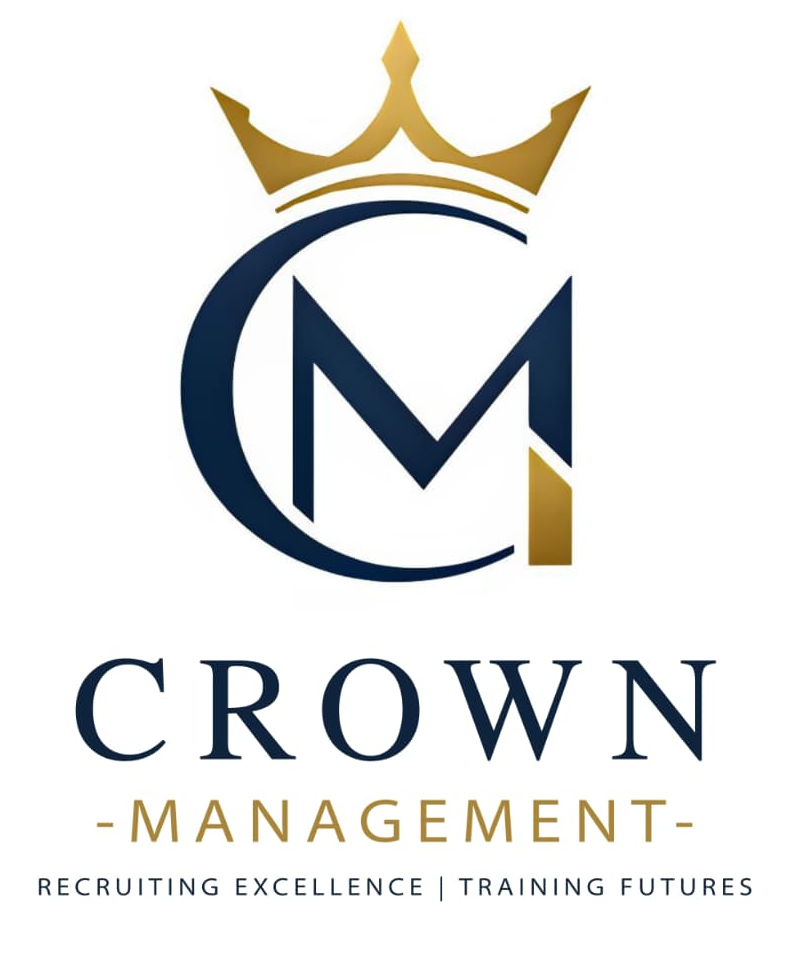
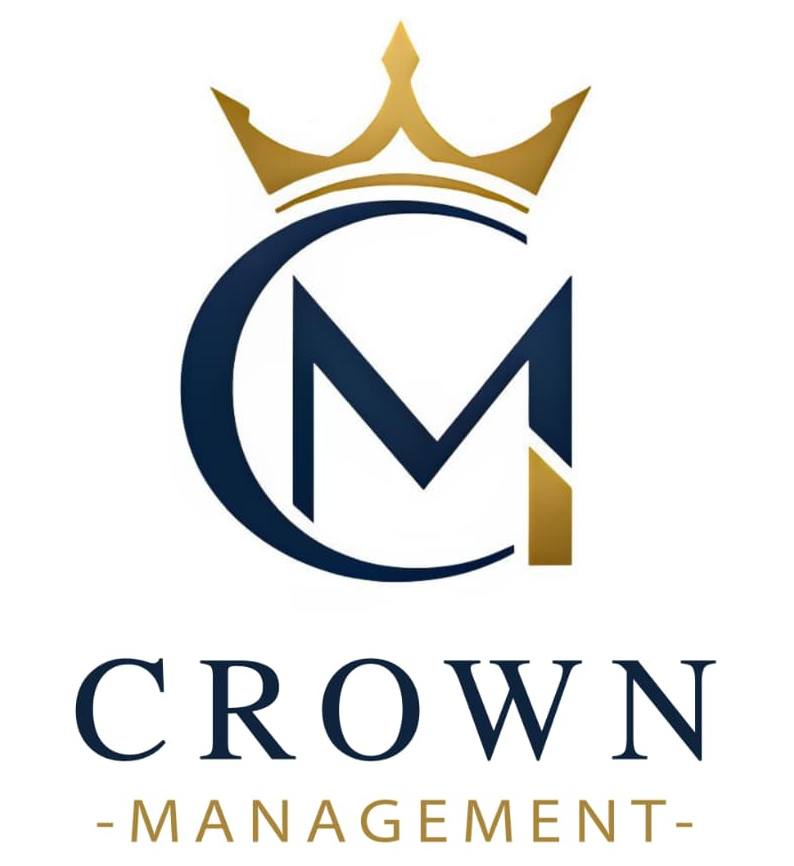
fix: correct email address across all pages and initialize global styles.css

Changed region(s): [[0.0302, 0.0312, 0.937, 0.9977]]

diff --git a/css/styles.css b/css/styles.css
@@ -89,12 +89,10 @@ header {
   position: sticky;
   top: 15px;
   margin: 15px auto 0 auto;
-  width: calc(100% - 40px);
+  width: calc(100% - 30px);
   max-width: 1200px;
-  background: rgba(255, 255, 255, 0.75);
-  backdrop-filter: blur(20px);
-  -webkit-backdrop-filter: blur(20px);
-  border: 1px solid rgba(255, 255, 255, 0.45);
+  background: #ffffff;
+  border: 1px solid rgba(0, 150, 136, 0.12);
   border-radius: 50px;
   box-shadow: 0 10px 30px -10px rgba(0, 150, 136, 0.12), 0 1px 3px rgba(0, 0, 0, 0.02);
   z-index: 1000;
@@ -102,9 +100,9 @@ header {
 }
 
 header.scrolled {
-  background: rgba(255, 255, 255, 0.9);
+  background: #ffffff;
   box-shadow: 0 15px 35px -8px rgba(0, 150, 136, 0.18), 0 2px 10px rgba(0, 0, 0, 0.03);
-  border-color: rgba(255, 255, 255, 0.25);
+  border-color: rgba(0, 150, 136, 0.15);
 }
 
 nav {

diff --git a/contact.html b/contact.html
@@ -436,7 +436,7 @@
                                     style="color: #0f172a; font-size: 1.1rem; display: block; margin-bottom: 0.5rem;">Email
                                     Us</strong>
                                 <p style="color: #009688; font-weight: 600; margin: 0 0 0.3rem 0;">
-                                    [email redacted]</p>
+                                    [email redacted]</p>
                                 <small style="color: #64748b;">We respond within 2 hours</small>
                             </div>
                         </div>
@@ -701,7 +701,7 @@
                         rel="noopener noreferrer"><i class="fab fa-instagram"></i></a>
                     <a href="https://x.com/Heliowelness?t=uLrIu84lXniWOtTz2ihZbg&s=08" target="_blank"
                         rel="noopener noreferrer"><i class="fab fa-twitter"></i></a>
-                    <a href="mailto:[email redacted]"><i class="fas fa-envelope"></i></a>
+                    <a href="mailto:[email redacted]"><i class="fas fa-envelope"></i></a>
                 </div>
             </div>
 
@@ -728,7 +728,7 @@
             <div class="footer-section">
                 <h3>Contact Info</h3>
                 <ul>
-                    <li><i class="fas fa-envelope"></i> [email redacted]</li>
+                    <li><i class="fas fa-envelope"></i> [email redacted]</li>
                     <li><i class="fas fa-phone"></i> [phone redacted]</li>
                     <li><i class="fab fa-whatsapp"></i> WhatsApp: [phone redacted]</li>
                 </ul>

diff --git a/hydrafacial.html b/hydrafacial.html
@@ -513,7 +513,7 @@
                         rel="noopener noreferrer"><i class="fab fa-instagram"></i></a>
                     <a href="https://x.com/Heliowelness?t=uLrIu84lXniWOtTz2ihZbg&s=08" target="_blank"
                         rel="noopener noreferrer"><i class="fab fa-twitter"></i></a>
-                    <a href="mailto:[email redacted]"><i class="fas fa-envelope"></i></a>
+                    <a href="mailto:[email redacted]"><i class="fas fa-envelope"></i></a>
                 </div>
             </div>
 
@@ -540,7 +540,7 @@
             <div class="footer-section">
                 <h3>Contact Info</h3>
                 <ul>
-                    <li><i class="fas fa-envelope"></i> [email redacted]</li>
+                    <li><i class="fas fa-envelope"></i> [email redacted]</li>
                     <li><i class="fas fa-phone"></i> [phone redacted]</li>
                     <li><i class="fab fa-whatsapp"></i> WhatsApp: [phone redacted]</li>
                 </ul>
@@ -586,7 +586,7 @@
             "name": "Helio",
             "url": "https://heliowellnes.com",
             "telephone": "[phone redacted]",
-            "email": "[email redacted]"
+            "email": "[email redacted]"
         },
         "medicalSpecialty": "Dermatology",
         "indication": [

diff --git a/about.html b/about.html
@@ -632,7 +632,7 @@
                         rel="noopener noreferrer"><i class="fab fa-instagram"></i></a>
                     <a href="https://x.com/Heliowelness?t=uLrIu84lXniWOtTz2ihZbg&s=08" target="_blank"
                         rel="noopener noreferrer"><i class="fab fa-twitter"></i></a>
-                    <a href="mailto:[email redacted]"><i class="fas fa-envelope"></i></a>
+                    <a href="mailto:[email redacted]"><i class="fas fa-envelope"></i></a>
                 </div>
             </div>
 
@@ -659,7 +659,7 @@
             <div class="footer-section">
                 <h3>Contact Info</h3>
                 <ul>
-                    <li><i class="fas fa-envelope"></i> [email redacted]</li>
+                    <li><i class="fas fa-envelope"></i> [email redacted]</li>
                     <li><i class="fas fa-phone"></i> [phone redacted]</li>
                     <li><i class="fab fa-whatsapp"></i> WhatsApp: [phone redacted]</li>
                 </ul>

diff --git a/how-it-works.html b/how-it-works.html
@@ -324,7 +324,7 @@
                         rel="noopener noreferrer"><i class="fab fa-instagram"></i></a>
                     <a href="https://x.com/Heliowelness?t=uLrIu84lXniWOtTz2ihZbg&s=08" target="_blank"
                         rel="noopener noreferrer"><i class="fab fa-twitter"></i></a>
-                    <a href="mailto:[email redacted]"><i class="fas fa-envelope"></i></a>
+                    <a href="mailto:[email redacted]"><i class="fas fa-envelope"></i></a>
                 </div>
             </div>
             <div class="footer-section">
@@ -348,7 +348,7 @@
             <div class="footer-section">
                 <h3>Contact Info</h3>
                 <ul>
-                    <li><i class="fas fa-envelope"></i> [email redacted]</li>
+                    <li><i class="fas fa-envelope"></i> [email redacted]</li>
                     <li><i class="fas fa-phone"></i> [phone redacted]</li>
                     <li><i class="fab fa-whatsapp"></i> WhatsApp: [phone redacted]</li>
                 </ul>

diff --git a/index.html b/index.html
@@ -721,7 +721,7 @@
                         rel="noopener noreferrer"><i class="fab fa-instagram"></i></a>
                     <a href="https://x.com/Heliowelness?t=uLrIu84lXniWOtTz2ihZbg&s=08" target="_blank"
                         rel="noopener noreferrer"><i class="fab fa-twitter"></i></a>
-                    <a href="mailto:[email redacted]"><i class="fas fa-envelope"></i></a>
+                    <a href="mailto:[email redacted]"><i class="fas fa-envelope"></i></a>
                 </div>
             </div>
             <div class="footer-section">
@@ -745,7 +745,7 @@
             <div class="footer-section">
                 <h3>Contact Info</h3>
                 <ul>
-                    <li><i class="fas fa-envelope"></i> [email redacted]</li>
+                    <li><i class="fas fa-envelope"></i> [email redacted]</li>
                     <li><i class="fas fa-phone"></i> [phone redacted]</li>
                     <li><i class="fab fa-whatsapp"></i> WhatsApp: [phone redacted]</li>
                 </ul>

diff --git a/privacy.html b/privacy.html
@@ -95,7 +95,7 @@
                 <h2>9. Contact Us</h2>
                 <p>If you have any questions, concerns, or requests regarding this Privacy Policy or your data protection rights, please contact us at:</p>
                 <p style="margin-bottom: 0;"><strong>Crown Management Private Limited / Helio</strong><br>
-                Email: [email redacted]<br>
+                Email: [email redacted]<br>
                 Phone: [phone redacted]</p>
             </div>
         </div>
@@ -121,7 +121,7 @@
             <div class="footer-section">
                 <h3>Contact Info</h3>
                 <ul>
-                    <li><i class="fas fa-envelope"></i> [email redacted]</li>
+                    <li><i class="fas fa-envelope"></i> [email redacted]</li>
                     <li><i class="fas fa-phone"></i> [phone redacted]</li>
                     <li><i class="fab fa-whatsapp"></i> WhatsApp: [phone redacted]</li>
                 </ul>

diff --git a/services.html b/services.html
@@ -664,7 +664,7 @@
                         rel="noopener noreferrer"><i class="fab fa-instagram"></i></a>
                     <a href="https://x.com/Heliowelness?t=uLrIu84lXniWOtTz2ihZbg&s=08" target="_blank"
                         rel="noopener noreferrer"><i class="fab fa-twitter"></i></a>
-                    <a href="mailto:[email redacted]"><i class="fas fa-envelope"></i></a>
+                    <a href="mailto:[email redacted]"><i class="fas fa-envelope"></i></a>
                 </div>
             </div>
             <div class="footer-section">
@@ -688,7 +688,7 @@
             <div class="footer-section">
                 <h3>Contact Info</h3>
                 <ul>
-                    <li><i class="fas fa-envelope"></i> [email redacted]</li>
+                    <li><i class="fas fa-envelope"></i> [email redacted]</li>
                     <li><i class="fas fa-phone"></i> [phone redacted]</li>
                     <li><i class="fab fa-whatsapp"></i> WhatsApp: [phone redacted]</li>
                 </ul>

diff --git a/terms.html b/terms.html
@@ -92,7 +92,7 @@
                 <h2>10. Contact Us</h2>
                 <p>If you have any questions or require clarifications regarding these Terms of Service, please contact us at:</p>
                 <p style="margin-bottom: 0;"><strong>Crown Management Private Limited / Helio</strong><br>
-                Email: [email redacted]<br>
+                Email: [email redacted]<br>
                 Phone: [phone redacted]</p>
             </div>
         </div>
@@ -118,7 +118,7 @@
             <div class="footer-section">
                 <h3>Contact Info</h3>
                 <ul>
-                    <li><i class="fas fa-envelope"></i> [email redacted]</li>
+                    <li><i class="fas fa-envelope"></i> [email redacted]</li>
                     <li><i class="fas fa-phone"></i> [phone redacted]</li>
                     <li><i class="fab fa-whatsapp"></i> WhatsApp: [phone redacted]</li>
                 </ul>